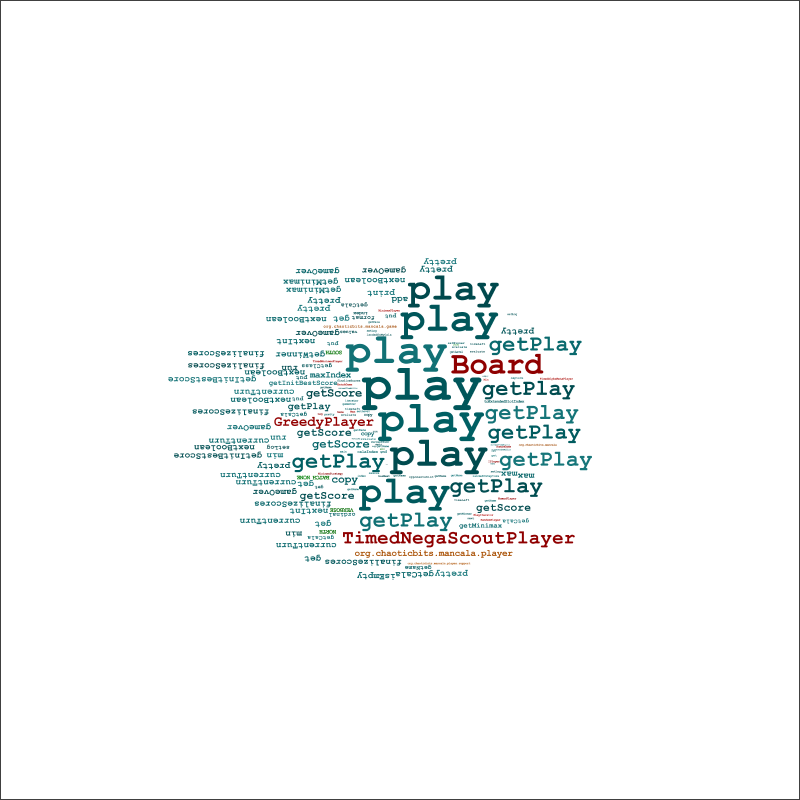
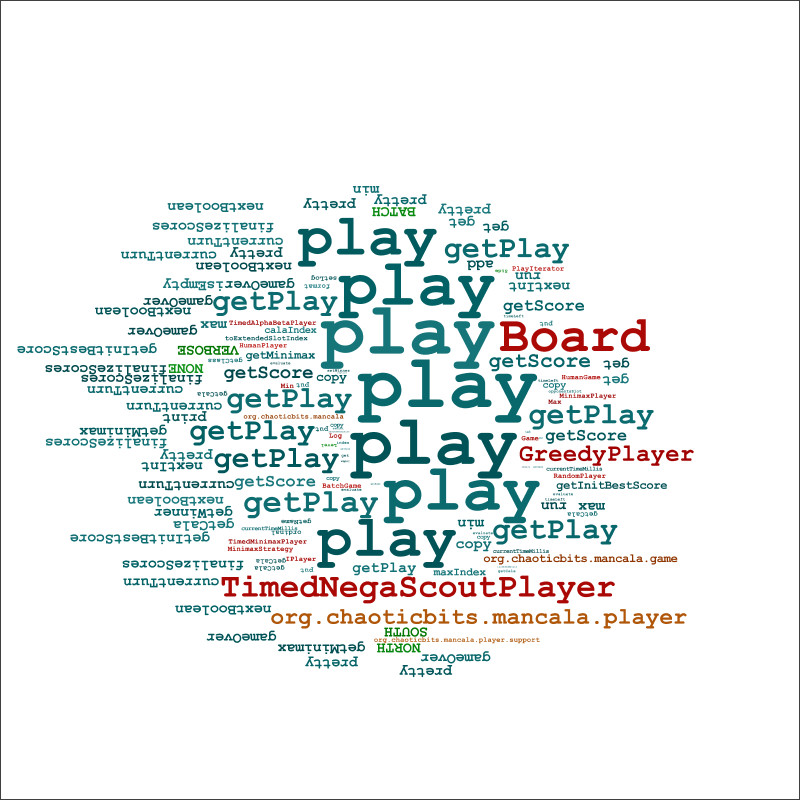
more tweaking of parameters

Changed region(s): [[0.0312, 0.2188, 0.875, 0.8438]]

diff --git a/src/test/java/org/chaoticbits/collabcloud/SummarizeRepo.java b/src/test/java/org/chaoticbits/collabcloud/SummarizeRepo.java
@@ -43,11 +43,11 @@ public class SummarizeRepo {
 			400, 50, 50)));
 
 	private static org.apache.log4j.Logger log = org.apache.log4j.Logger.getLogger(SummarizeRepo.class);
-	private static IWeightModifier modifier = new MultiplyModifier(2.0);
+	private static IWeightModifier modifier = new MultiplyModifier(1.5);
 	private static Font INITIAL_FONT = new Font("Courier New", Font.BOLD, 150);
 	// private static IColorScheme COLOR_SCHEME = new RandomGrey(RAND, 25, 175);
 	private static IColorScheme COLOR_SCHEME = new JavaColorScheme(RAND, 50);
-	private static double MAX_FONT_SIZE = 50.0d;
+	private static double MAX_FONT_SIZE = 75.0d;
 
 	private static final Intersector intersector = new Intersector(10, LEAF_CUTOFF);
 	private static final IHitCheck<Shape> checker = new IHitCheck<Shape>() {
